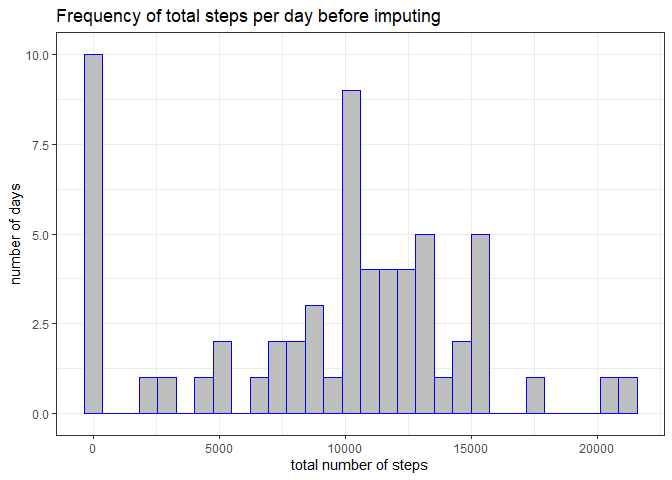
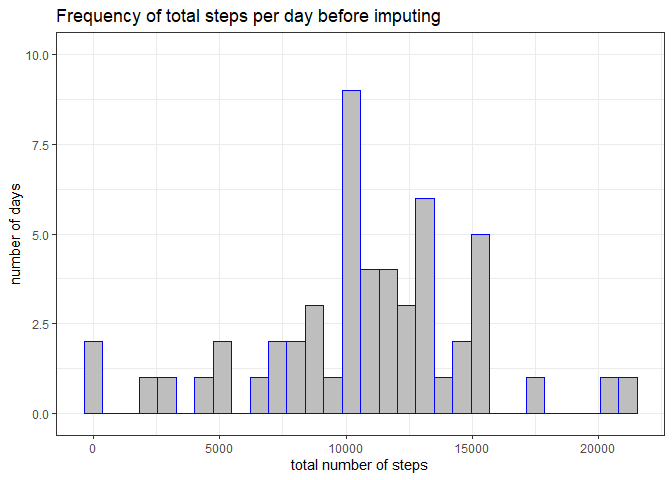
Commit2 ignore NAs using na.omit()

diff --git a/PA1__Aug2023_JC/PA1_template.html b/PA1__Aug2023_JC/PA1_template.html
@@ -407,7 +407,8 @@ class(activity$date)</code></pre>
 <h3>II. What is the mean total number of steps taken per day?</h3>
 <p><strong>1. Calculate the total number of steps taken each
 day.</strong> Use dplyr package, group by date, then summarize by taking
-the sum for each date after removing NAs.</p>
+the sum for each date after removing NAs. Ignore NAs using na.omit()
+e.g. 2012-10-01 will not be in steps_t data frame.</p>
 <pre class="r"><code>#load package
 library(dplyr)</code></pre>
 <pre><code>## Warning: package &#39;dplyr&#39; was built under R version 4.3.1</code></pre>
@@ -420,11 +421,12 @@ library(dplyr)</code></pre>
 ## 
 ##     intersect, setdiff, setequal, union</code></pre>
 <pre class="r"><code>#calculate sum of steps
-steps_t &lt;- activity %&gt;% 
+steps_t &lt;- activity %&gt;%
+     na.omit %&gt;% 
      group_by(date) %&gt;% 
      summarise(total_steps = sum(steps, na.rm = TRUE))</code></pre>
 <ul>
-<li>steps_t data frame has 61 observations and 2 variables</li>
+<li>steps_t data frame has 53 observations and 2 variables</li>
 </ul>
 <p><strong>2. Make a histogram</strong> of the total number of steps
 taken each day, use ggplot2 package.</p>
@@ -437,12 +439,12 @@ ggplot(steps_t, aes(total_steps)) +
      ylim(min = -0.1, max = 10.1) +
      labs(title = &quot;Frequency of total steps per day before imputing&quot;, x = &quot;total number of steps&quot;, y = &quot;number of days&quot;)</code></pre>
 <pre><code>## `stat_bin()` using `bins = 30`. Pick better value with `binwidth`.</code></pre>
[2 lines of base64/hex data omitted]
 <p><strong>3. Calculate the mean and median of the total number of
 steps.</strong></p>
 <pre class="r"><code>total_mm1 &lt;- paste (&quot;mean1 = &quot;, mean(steps_t$total_steps), &quot;; median1 = &quot;, median(steps_t$total_steps))
 total_mm1</code></pre>
-<pre><code>## [1] &quot;mean1 =  9354.22950819672 ; median1 =  10395&quot;</code></pre>
+<pre><code>## [1] &quot;mean1 =  10766.1886792453 ; median1 =  10765&quot;</code></pre>
 </div>
 <div id="iii.-what-is-the-average-daily-activity-pattern" class="section level3">
 <h3>III. What is the average daily activity pattern?</h3>
@@ -450,8 +452,9 @@ total_mm1</code></pre>
 5-minute interval (x-axis) and the average number of steps taken,
 averaged across all days (y-axis)</p>
 <p>1.a. Average number of steps for each 5 minute interval across all
-days using dplyr.</p>
+days using dplyr. Ignore NAs using na.omit().</p>
 <pre class="r"><code>steps_av &lt;- activity %&gt;% 
+     na.omit %&gt;% 
      group_by(interval) %&gt;% 
      summarise(average_steps = mean(steps, na.rm = TRUE))</code></pre>
 <ul>
@@ -509,8 +512,10 @@ data;<br />
 e. bind activity_na2 to this data frame to create a new data frame with
 imputed missing values: activity2</p>
 <p><strong>3. Create new data frame</strong></p>
-<p>3.a. Calculate median steps for each interval</p>
+<p>3.a. Calculate median steps for each interval. Ignore rows with
+missing values using na.omit().</p>
 <pre class="r"><code>steps_med &lt;- activity %&gt;% 
+     na.omit %&gt;% 
      group_by(interval) %&gt;% 
      summarise(median_steps = median(steps, na.rm = TRUE))</code></pre>
 <p>3.b. Subset activity data frame for dates and interval columns
@@ -570,13 +575,13 @@ total_mm2</code></pre>
 <pre><code>## [1] &quot;mean2 =  9503.86885245902 ; median2 =  10395&quot;</code></pre>
 <pre class="r"><code>#print mean and median before imputing
 total_mm1</code></pre>
-<pre><code>## [1] &quot;mean1 =  9354.22950819672 ; median1 =  10395&quot;</code></pre>
+<pre><code>## [1] &quot;mean1 =  10766.1886792453 ; median1 =  10765&quot;</code></pre>
 <ul>
-<li>the median of imputed and non-imputed data sets were the same (10395
-steps)<br />
+<li>the median of imputed data was lower at 10395 compared to the
+original data at 10765<br />
 </li>
-<li>the mean after imputing was larger (9503) than the mean before
-imputing (9354)</li>
+<li>the mean after imputing was smaller (9503) than the mean before
+imputing (10766)</li>
 </ul>
 </div>
 <div id="v.-are-there-differences-in-activity-patterns-between-weekdays-and-weekends" class="section level3">

diff --git a/PA1__Aug2023_JC/PA1_template.md b/PA1__Aug2023_JC/PA1_template.md
@@ -81,7 +81,7 @@ class(activity$date)
 ### II. What is the mean total number of steps taken per day?  
 
 **1. Calculate the total number of steps taken each day.** 
-Use dplyr package, group by date, then summarize by taking the sum for each date after removing NAs.
+Use dplyr package, group by date, then summarize by taking the sum for each date after removing NAs. Ignore NAs using na.omit() e.g. 2012-10-01 will not be in steps_t data frame.  
 
 
 ```r
@@ -112,12 +112,13 @@ library(dplyr)
 
 ```r
 #calculate sum of steps
-steps_t <- activity %>% 
+steps_t <- activity %>%
+     na.omit %>% 
      group_by(date) %>% 
      summarise(total_steps = sum(steps, na.rm = TRUE))
 ```
 
-- steps_t data frame has 61 observations and 2 variables
+- steps_t data frame has 53 observations and 2 variables
 
 **2. Make a histogram** of the total number of steps taken each day, use ggplot2 package.
 
@@ -148,18 +149,19 @@ total_mm1
 ```
 
 ```
-## [1] "mean1 =  9354.22950819672 ; median1 =  10395"
+## [1] "mean1 =  10766.1886792453 ; median1 =  10765"
 ```
 
 ### III. What is the average daily activity pattern?  
 
 **1. Make a time series plot** (i.e. type = "l") of the 5-minute interval (x-axis) and the average number of steps taken, averaged across all days (y-axis)
 
-1.a. Average number of steps for each 5 minute interval across all days using dplyr.  
+1.a. Average number of steps for each 5 minute interval across all days using dplyr. Ignore NAs using na.omit().  
 
 
 ```r
 steps_av <- activity %>% 
+     na.omit %>% 
      group_by(interval) %>% 
      summarise(average_steps = mean(steps, na.rm = TRUE))
 ```
@@ -226,11 +228,12 @@ e. bind activity_na2 to this data frame to create a new data frame with imputed 
 
 **3. Create new data frame**  
 
-3.a. Calculate median steps for each interval
+3.a. Calculate median steps for each interval. Ignore rows with missing values using na.omit().
 
 
 ```r
 steps_med <- activity %>% 
+     na.omit %>% 
      group_by(interval) %>% 
      summarise(median_steps = median(steps, na.rm = TRUE))
 ```
@@ -337,10 +340,10 @@ total_mm1
 ```
 
 ```
-## [1] "mean1 =  9354.22950819672 ; median1 =  10395"
+## [1] "mean1 =  10766.1886792453 ; median1 =  10765"
 ```
-- the median of imputed and non-imputed data sets were the same (10395 steps)  
-- the mean after imputing was larger (9503) than the mean before imputing (9354)
+- the median of imputed data was lower at 10395 compared to the original data at 10765  
+- the mean after imputing was smaller (9503) than the mean before imputing (10766)
 
 ### V. Are there differences in activity patterns between weekdays and weekends?
 
